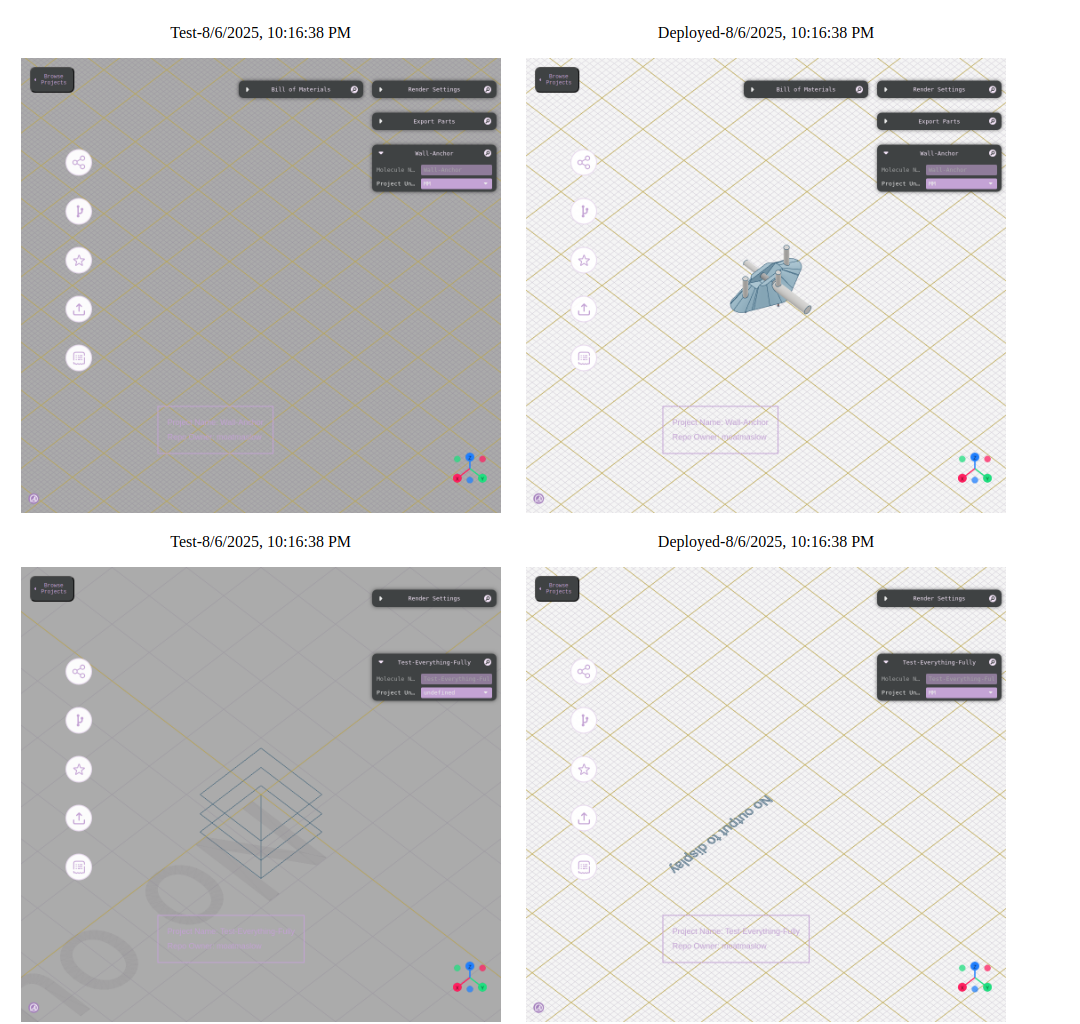
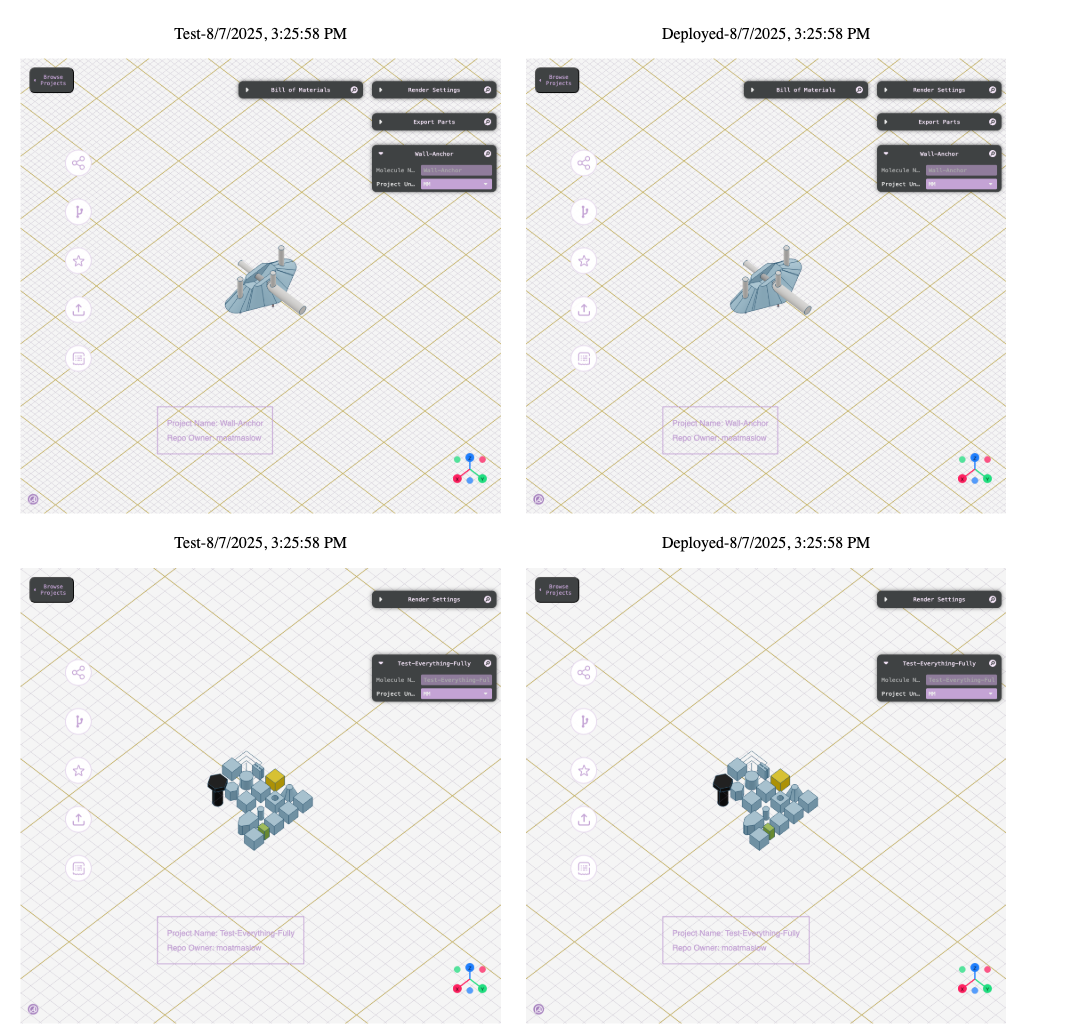
adds delay

diff --git a/Puppet/index.js b/Puppet/index.js
@@ -52,6 +52,8 @@ async function loadPuppeteerAndExec(browser, date) {
       { timeout: 120000 }, // Increase timeout to 2 minutes
       selector
     );
+    // Wait a few seconds after the selector is found before taking the screenshot
+    await new Promise((resolve) => setTimeout(resolve, 10000));
     try {
       await page.screenshot({
         path: `Puppet/images/${projectName}-Test.png`,
@@ -82,7 +84,7 @@ async function loadPuppeteerAndExec(browser, date) {
       );
 
       // Wait a bit for the page to load
-      await new Promise((resolve) => setTimeout(resolve, 5000));
+      await new Promise((resolve) => setTimeout(resolve, 10000));
 
       await page.screenshot({
         path: `Puppet/images/${projectName}-Deployed.png`,
